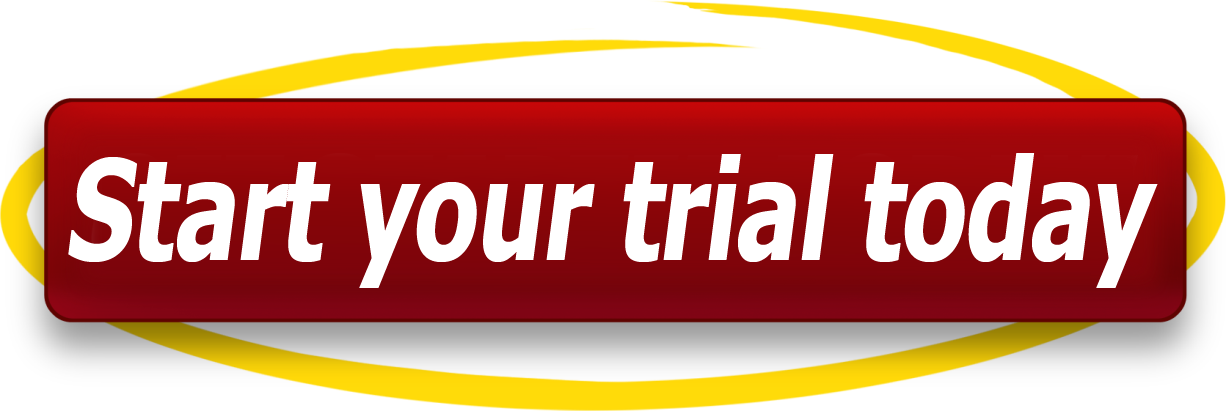
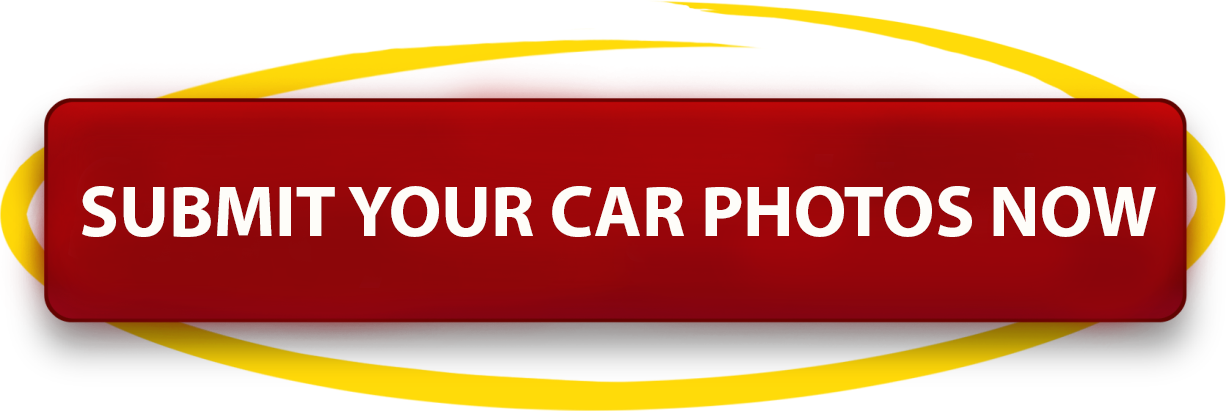
aa

diff --git a/public/css/sample_1/mycss.css b/public/css/sample_1/mycss.css
@@ -53,7 +53,7 @@
   text-shadow: 3px 4px 6px white;
 }
 .slider-p-black{
-    font-size: 25px;
+
     text-transform: uppercase;
     font-weight: bold;
     color: black;
@@ -66,6 +66,18 @@
     color: white;
     text-shadow: 3px 4px 6px black;
  
+}
+.text-shadow-black{
+    text-shadow: 3px 4px 6px black;
+}
+.text-shadow-white{
+    text-shadow: 3px 4px 6px white;
+}
+.text-shadow-green{
+    text-shadow: 3px 4px 6px #669932;
+}
+.font-65{
+    font-size: 65px;
 }
 .section-title{
     font-size: 50px; text-transform: uppercase;
@@ -110,7 +122,16 @@ font-weight: bold;
 box-shadow: -1px 7px 10px 0px rgba(0,0,0,0.44);
 }
 
+.dash-list{
+  list-style-type: none;
+}
 
+.dash-list  li:before {
+  content: "–"; /* en dash */
+  position: absolute;
+  margin-left: -1.1em; 
+
+            }
 
 
 
@@ -127,5 +148,17 @@ box-shadow: -1px 7px 10px 0px rgba(0,0,0,0.44);
     }
     .carousel-caption p{
         margin-bottom: 200px
+    }
+}
+@media only screen and (max-width: 1256px) {
+
+    .carousel-caption{
+        margin-top: 100px;
+    }
+}
+@media only screen and (min-width: 1257px) {
+   
+    .carousel-caption{
+        margin-bottom: 250px;
     }
 }

diff --git a/resources/views/landing_page/home.blade.php b/resources/views/landing_page/home.blade.php
@@ -17,57 +17,48 @@
                         <div class="carousel-caption row ">
                             <div class="col-md-7">
                               <h2 class="text-left slider-h2">HAVE YOUR CAR CHECKED FAST AND FREE <span style="color: #669932">BY AN EXPERT ONLINE </span></h2>
-                                  <div class="" style="margin-bottom: 300px">
-                                    <!-- <hr class="my-4"> -->
-                                    
+                                  <div class="">
                                     <p class="lead">
-                                      <p class="text-left slider-p-black" style="font-size: 34px;">your best bet to stay away form buying another lemon</p>
+                                      <p class="text-left slider-p-black font-30" style="text-shadow: 2px 1px 0px rgba(255, 255, 255, 1);font-weight: bolder;">your best bet to stay away form buying another lemon</p>
                                       <a class="btn btn-success btn-lg float-left" href="{{ url('Sample_1/Submit/') }}" role="button">TRY IT NOW FOR FREE</a>
                                     </p>
                                   </div>
                             </div>
                         </div>
                       </div>
-                         <!-- Slide Three - Set the background image for this slide in the line below -->
+
                       <div  class="carousel-item slider" style="background-image: url({{ asset('images/sample_1/slider/4.jpg') }})">
-                        <!-- <div class="carousel-caption  d-md-block">
-                          <h2 class="display-4">Save money and time</h2>
-                          <p class="lead">A new best way to check used car mechanically from deep within</p>
-                        </div> -->
                           <div class="carousel-caption row ">
                         
                             <div class="col-md-7 offset-md-5">
-                                    <div  class="jumbotron" style="max-height: 500px;margin-bottom: 300px;">
+                                    <div  class="jumbotron" style="min-height: 500px">
                                          <h2  class="text-right slider-h2"><span>SAVE <span style="color: #D59531" >MONEY</span> & TIME <img src="{{ asset('images/sample_1/icons/clock.jpg') }}" width="65"></span></h2>
                                                                     
                                             <p class="lead">
-                                              <p class="text-right slider-p-black">purchasing the right used car can be challenging, time consuming and sometimes quite a headache. And still there is no guarantee that you haven't picked up someone's headache</p>
+                                              <p class="text-right slider-p-black font-20">purchasing the right used car can be challenging, time consuming and sometimes quite a headache. And still there is no guarantee that you haven't picked up someone's headache</p>
                                               <a class="btn btn-success btn-lg float-right" href="{{ url('Sample_1/Submit/') }}" role="button">TRY IT NOW FOR FREE</a>
                                               <br>
                                             </p>  
                                     </div>
                             </div>
-                           
-                 
                         </div>
                       </div>
+
                       <div  class="carousel-item slider" style="background-image: url({{ asset('images/sample_1/slider/5.jpg') }})">
 
                           <div class="carousel-caption row ">
                         
                             <div class="col-md-7 offset-md-5">
-                                    <div class="jumbotron" style="max-height: 500px;margin-bottom: 300px;">
-                                         <h2 class="text-right slider-h2" style="color: #669932"><span>UP TO 3 FREE CAR ANALYSIS</span></h2>                                          
+                                    <div class="jumbotron" style="min-height: 500px;">
+                                         <h2 class="text-right text-shadow-black font-65 txtbolder" style="color: #669932;"><span>UP TO 3 FREE CAR ANALYSIS</span></h2>                                          
                                             <p class="lead">
-                                              <p class="text-right slider-p-black">A new best way to check used car mechanically from deep within</p>
-                                              <h3 class="text-right" style="color:red;font-weight: bold; font-size: 30px"><span  >NO HIDDEN CHARGES</span></h3>
+                                              <p class="text-right slider-p-black txtbolder font-30">A new best way to check used car mechanically from deep within</p>
+                                              <h3 class="text-right" style="color:red;font-weight: bold; font-size: 50px"><span  >NO HIDDEN CHARGES</span></h3>
                                               <a class="btn btn-success btn-lg float-right" href="{{ url('Sample_1/Submit/') }}" role="button">TRY IT NOW FOR FREE</a>
                                               <br>
                                             </p>  
                                     </div>
                             </div>
-                           
-                 
                         </div>
                       </div>
 
@@ -105,8 +96,8 @@
 
 
                         <ul class="list-unstyled">
-                            <li class="section-description"><i class="fas fa-check color-green"></i>  3 FREE Consultancy</li>
-                            <li class="section-description"><i class="fas fa-check color-green"></i>  Easy Process</li>
+                            <li class="section-description"><i class="fas fa-check color-green"></i>  3 FREE Analysis</li>
+                            <li class="section-description"><i class="fas fa-check color-green"></i>  Fast, Accurate and Complete checking of your car</li>
                             <li class="section-description"><i class="fas fa-check color-green"></i>  Tried and Tested</li>
                             <li class="section-description"><i class="fas fa-check color-green"></i>  100% FREE</li>
                         </ul>
@@ -125,11 +116,11 @@
                 <div class="col-md-8 col-lg-7 text-center">
 
                     <!-- Heading -->
-                    <h2 data-aos="zoom-in" class="lg-title mb-2 section-title mb-5"><span class="color-green">Why</span> <span class="color-white bg-green px-3">Choose us</span></h2>
+                    <h2 data-aos="zoom-in" class="lg-title mb-2 section-title mb-5"><span class="color-green">Why</span> <span class="color-white bg-green px-3">CarEnergies.com</span></h2>
 
                     <!-- Subheading -->
                     <p class="mb-5 section-description font-30">
-                        No other person in the world can do this, let alone do it online by just seeing a few photos online!
+                        No other person in the world can check with an X-ray precision, the existing (and soon to come) troubles of the automobile you consider to purchase, by looking at a few photos and sensing the energies of it.
                     </p>
 
                 </div>
@@ -147,7 +138,7 @@
                                     </div>
                                     <div class="service-content ">
                                         <h4 class="section-description"><span style="font-weight: bold;"  class="color-green txt-bold">EXPERT</span > Professional</h4>
-                                        <p class="color-black">In this section a description for and expert professional</p>
+                                        <p class="color-black">Having a car mechanic dad, Julia knows different systems and parts of cars, and does a complete and professional analysis</p>
                                     </div>
                                 </div>
                          </div>
@@ -158,8 +149,8 @@
                                         <img src="{{ asset('images/sample_1/icons/free.png') }}" alt="" height="100" width="100">
                                     </div>
                                     <div class="service-content ">
-                                        <h4 class="section-description"><span style="font-weight: bold;"  class="txt-bold color-green">100%</span > Free Trial</h4>
-                                        <p class="color-black">Sign up now to get free 3 consultation, A one time offer</p>
+                                        <h4 class="section-description"><span style="font-weight: bold;"  class="txt-bold color-green">100%</span > Free</h4>
+                                        <p class="color-black">Go ahead and submit six photos of the car for a free evaluation report NOW</p>
                                     </div>
                                 </div>
                          </div>
@@ -170,7 +161,7 @@
                                     </div>
                                     <div class="service-content ">
                                         <h4 class="section-description"><span style="font-weight: bold;"  class="txt-bold color-green">Trusted</span > by Clients</h4>
-                                        <p class="color-black">In this section a description for Trusted by Clients</p>
+                                        <p class="color-black">Julia has helped many clients choose the best car for their money. She can help you too</p>
                                     </div>
                                 </div>
                          </div>
@@ -180,8 +171,8 @@
                                         <img src="{{ asset('images/sample_1/icons/quick.png') }}" alt="" height="130" width="130">
                                     </div>
                                     <div class="service-content ">
-                                        <h4 class="section-description"><span style="font-weight: bold;"  class="txt-bold color-green">EASY</span > Process</h4>
-                                        <p class="color-black">This will only take up to 24 hours maximum, and can do 100 daily consultation</p>
+                                        <h4 class="section-description"><span style="font-weight: bold;"  class="txt-bold color-green">EASY</span > Fast</h4>
+                                        <p class="color-black">You upload and send your car photos, and receive your report usually in less than 24 hours</p>
                                     </div>
                                 </div>
                          </div>
@@ -219,7 +210,7 @@
                                       <img class="" src="{{ asset('images/sample_1/process/picture.png') }}" width="75" height="75">
                                   </div>
                                   <div class="service-content">
-                                      <h4 class="section-description text-right"><span style="font-weight: bold;"  class="txt-bold color-green">TAKE CAR'S</span> PICTURE</h4>
+                                      <h4 class="section-description text-right"><span style="font-weight: bold;"  class="txt-bold color-green">1. TAKE YOUR CAR'S</span> PICTURE</h4>
                                       <p class="color-black text-right">Upload 4 recent clear photos of the used car in(front,read,left side,rightside)</p>
                                   </div>
                             </div>
@@ -233,7 +224,7 @@
                                   </div>
                                   <div class="service-content">
                                       <h4 class="section-description text-right">
-                                          <span class="txt-bold color-green" style="font-weight: bold;">SUBMIT DETAILS</span> THRU EMAIL
+                                          <span class="txt-bold color-green" style="font-weight: bold;"> 2. YOU UPLOAD AND </span> SUBMIT THEM
                                       </h4>
                                       <p class="color-black text-right">Send us the pictures with your name, email address, state, city and country</p>
                                   </div>
@@ -254,9 +245,9 @@
                                 <img src="{{ asset('images/sample_1/process/diagnose.png') }}" width="75" height="75">
                                 <div class="service-content">
                                     <h4 class="section-description">
-                                        <span class="txt-bold color-green" style="font-weight: bold;">CAR</span> DIAGNOSTIC
+                                        <span class="txt-bold color-green" style="font-weight: bold;"> 3. CAR</span> DIAGNOSIS
                                     </h4>
-                                    <p class="color-black text-left">We are going to check the car's energy thru the sent photos from you and list existing potential problems if theres any</p>
+                                    <p class="color-black text-left">We will analyze the car energies to find and list the existing and/or potential problems, if any</p>
                                 </div>  
                             </div>                             
                         </div>
@@ -267,7 +258,7 @@
                                 <img src="{{ asset('images/sample_1/process/report.jpg') }}" width="75" height="75">
                                 <div class="service-content">
                                     <h4 class="section-description">
-                                        <span class="txt-bold color-green" style="font-weight: bold;">RESOLUTION &</span> RECOMMENDATION
+                                        <span class="txt-bold color-green" style="font-weight: bold;">4.  RESOLUTION &</span> RECOMMENDATION
                                     </h4>
                                     <p class="color-black text-left">An email will be sent back to you consisting with diagnostic report up to 12-24 hours</p>
                                 </div>  
@@ -536,11 +527,11 @@
                 <div class="col-md-12 col-lg-12 text-center">
 
                     <!-- Heading -->
-                     <h2 data-aos="fade-right" class="lg-title mb-4 section-title"><span style="font-weight: bold;"  class="color-green">Have any</span> <span class="color-white bg-green px-3">Questions on mind?</span></h2>
+                     <h2 data-aos="fade-right" class="lg-title mb-4 section-title"><span style="font-weight: bold;"  class="color-green">Have any</span> <span class="color-white bg-green px-3">Questions or Comments?</span></h2>
 
                     <!-- Subheading -->
                     <p class="mb-5 font-30 color-black">
-                        Our duty towards you is to share our experience we're reaching in our work path with you.
+                        Our goal is to serve you making your automobile purchase easier and help you save time, money.
                     </p>
 
                 </div>
@@ -587,8 +578,8 @@
 
                             <div class="col-lg-12">
                                 <div class="submit text-center">
-                                    <input name="submit" type="submit" class="btn btn-success btn-lg" value="Submit Now">
-                                    <p class="pt-3">* We will not spam on you inbox.</p>
+                                    <input name="submit" type="submit" class="btn btn-success btn-lg" value="Send Now">
+                                    <p class="pt-3">* We respect your privacy. We will not share your information with anybody and we will not spam your inbox.</p>
                                 </div>
                             </div>
                         </div>

diff --git a/resources/views/landing_page/benefits.blade.php b/resources/views/landing_page/benefits.blade.php
@@ -2,7 +2,10 @@
 
         <!-- About Car Energies
     ================================================== -->
-        
+        <style>
+            
+
+        </style>
 
         <section class="section">
             <div class="container-fluid">
@@ -12,7 +15,12 @@
                     </div>
                 </div>
                 <div class="col-md-8 offset-md-2 row mb-5">
-                       <p class="section-description">Imagine going to the seller knowing not only the condition of all parts of the vehicle, but also some trouble spots that even the seller may honestly not know. Even if you do not purchase it, the seller now can know the invaluable information on the coming future problems on the vehicle.</p>
+                      <!--  <p class="section-description">Imagine going to the seller knowing not only the condition of all parts of the vehicle, but also some trouble spots that even the seller may honestly not know. Even if you do not purchase it, the seller now can know the invaluable information on the coming future problems on the vehicle.</p> -->
+                      <ul class="dash-list">
+                          <li class="section-description">Imagine going to the seller, the auction in person or online, knowing not only the problems with the vehicle that might be covered up, but also the condition of parts soon to fail. or knowing that the car is in good shape and the asking price is well worth it. Either way, you are the head of the game. </li><br>
+                          <li class="section-description">You may be able to get a better deal during negotiation, when you show that you know a lot about the car that even the seller may not know. </li><br>
+                          <li class="section-description">And even if you walk away from it, you can help the seller by informing him of the coming troubles of the car.</li>
+                      </ul>
                 </div>
             </div>
           
@@ -24,8 +32,8 @@
                 </div>
                 <div class="col-md-6">
                     <div style="margin-top: 10%">
-                        <h3 class="section-title px-5"><span class="bg-green color-white px-3">DON'T BUY</span> <span >ANOTHER LEMON</span></h3>
-                        <p class=" px-5" style="font-size: 30px">Avoid being ripped off by a crook mechanic, that try to convince you of unnecessary and costly repairs! Know if you really need that!</p>
+                        <h3 class="section-title px-5"><span class="bg-green color-white px-3">DON'T BE DECEIEVED BY</span> <span >A DISHONEST MECHANIC</span></h3>
+                        <p class=" px-5" style="font-size: 30px">Avoid being taken advantage by a crook mechanic that tries to convince you of  unnecessary and costly repairs! Know if your vehicle really needs it</p>
        
                     </div>
                 </div>
@@ -33,37 +41,37 @@
             <div class="row" style="position:relative;">
                 <div class="col-md-6">
                     <div style="margin-top: 20%" class="px-5">
-                        <h3 class="section-title px-5">AHEAD <span class="bg-green color-white px-3">FROM ANYONE</span></h3>
+                        <h3 class="section-title px-5">AHEAD <span class="bg-green color-white px-3">OF EVERYONE</span></h3>
                         <p class="px-5"></p><br>
                         <div class="card">
                             <div class="card-body font-20 color-black">
                                  <img src="{{ asset('images/sample_1/benefits/ok.png') }}" alt="" class="" height="50" width="50">
-                                Bid with confidence in person or online automobile auctions.</div>
+                                A new best way to check a used car mechanical, electric, computer systems from deep within.</div>
                         </div>
                         <div class="card mt-2">
                             <div class="card-body font-20 color-black">
                                 <img src="{{ asset('images/sample_1/benefits/ok.png') }}" alt="" class="" height="50" width="50">
-                                Find gems that everybody else is overlooking (including possibly the car salesman), save thousands.</div>
+                                Find gems that everyone else is overlooking (including even the owner of the car) save thousands</div>
                         </div>
                         <div class="card mt-2">
                             <div class="card-body font-20 color-black"> 
                                 <img src="{{ asset('images/sample_1/benefits/ok.png') }}" alt="" class="" height="50" width="50">
-                                Increase your profits if you are in the business of buying and selling used cars, motorcycles, boats.</div>
+                                Walk away from problematic cars easily and happily.</div>
                         </div>
                          <div class="card mt-2">
                             <div class="card-body font-20 color-black"> 
                                 <img src="{{ asset('images/sample_1/benefits/ok.png') }}" alt="" class="" height="50" width="50">
-                                Free/easy/fast way to know the condition of your own vehicle.</div>
+                                Bid with confidence in person or online in auto auctions.</div>
                         </div>
                          <div class="card mt-2">
                             <div class="card-body font-20 color-black">
                                 <img src="{{ asset('images/sample_1/benefits/ok.png') }}" alt="" class="" height="50" width="50">
-                                Check for possible problems before you buy that used car.</div>
+                                Free/easy/fast way to know the condition of your own car.</div>
                         </div>
                          <div class="card mt-2">
                             <div class="card-body font-20 color-black">
                                 <img src="{{ asset('images/sample_1/benefits/ok.png') }}" alt="" class="" height="50" width="50">
-                                A new best way to check used car mechanically from deep within</div>
+                                Increase your profits if you are in the business of buying used cars, trucks, boats, motorcycles. </div>
                         </div>
                     </div>
                 </div>

diff --git a/resources/views/landing_page/about.blade.php b/resources/views/landing_page/about.blade.php
@@ -9,11 +9,13 @@
             <div class="container-fluid">
                 <div class="row">
                     <div class="col-md-12 text-center mb-3">
-                            <h2 data-aos="fade-right" class="lg-title mb-2 section-title"><span style="font-weight: bold;"  class="color-green">About</span> <span class="color-white bg-green px-3">Car energies</span><span class="ml-1 color-green">& julia</span></h2>
+                            <h2 data-aos="fade-right" class="lg-title mb-2 section-title"><span style="font-weight: bold;"  class="color-green">Everything is energy</span> <span class="color-white bg-green px-3">Everything emits energy</span></h2>
                     </div>
-                </div>
-                <div class="col-md-8 offset-md-2 row mb-5">
-                       <p class="section-description">Julia B. is very sensitive to subtle energies of objects, animals and people. She consumes energy doing this evaluation. She can evaluate a maximum of 100 automobiles a day. And for now, she will check up to 3 cars per person free of charge (and no more). Please note that this is for your personal use, and there are no guarantees that the car she approves, will be completely trouble free. But she has a proven track record of being %95 accurate in her evaluation..</p>
+                </div><br>
+                <div class="col-md-8 offset-md-2 row mb-5" >
+                       <p class="section-description" >Julia is very sensitive to subtle energies of objects, animals and people. She senses the defective or broken parts too. She has helped people to choose best used vehicle and stay away from buying lemons.</p>
+                        <p class="section-description">She has helped her friends and clients choose homes, lands, appliances, vehicles and other objects. She can help you too.  For now, she will analyze up to 3 cars per person free of charge</p>
+                        <p class="section-description">Please note that this service is for your personal use, and there are no guarantees that the car she approves, will be completely trouble free or the parts that she reports to be faulty or braking soon actually are. But she has a proven track record of being %95 accurate in her evaluation</p>
                 </div>
                 <div class="row col-md-12 justify-content-center">
                     <div class="about-img">
@@ -33,13 +35,13 @@
                     </div>
                     </div>
                     <div class="col-md-6">
-                        <p class="section-description">Julia can spot the troubles, accidents, damaged auto parts on cars, automobiles, trucks, motorcycles even bicycles. Even the best mechanics with the latest technologies who can check  a used car and give you a report of list of possible repairs can not detect the parts that are working at the moment of examination, but are done, used up and ready and about to break at any moment.</p >
+                        <p class="section-description">Julia can spot faulty mechanical, electrical parts and systems, previous accidents and covered up trouble spots of the vehicle by looking at new photos of it. She connects to the energies of these parts and informs you of her findings. Even the best mechanics using the latest technologies may not be able to detect the parts that are working at the moment of examination, but are done, used up and ready to break at any moment.</p >
                     </div>
                 </div>
                    <div class="row ">
                 <div class="col-lg-12 ">
                     <div class="container mb-5">
-                        <p class="px-5 text-center color-black" style="font-size: 30px">Where else can someone look at the photos of a car and see the failed arts, hidden problems, covered up headaches?</p>
+                        <p class="px-5 text-center color-black" style="font-size: 30px">Where else can someone look at the photos of a car and see the failed parts, hidden problems, covered up troubles?</p>
                     </div>
                 <div class="row col-lg-12 justify-content-center">
                     <a href="{{ url('Sample_1/Submit/') }}" class="btn btn-success text-center font-30">TRY OUR SERVICE FOR FREE</a>

diff --git a/resources/views/landing_page/footer.blade.php b/resources/views/landing_page/footer.blade.php
@@ -70,7 +70,7 @@
 
             <div class="row justify-content-md-center footer-copy">
                 <div class="col-lg-8 col-md-6 col-sm-6 text-center">
-                    <p class="lead text-white-50">&copy; Copyright 2019 | Design and Developed by Unciano </p>
+                    <p class="lead text-white-50">&copy; Copyright 2019 | Design and Developed by Car Energies </p>
                 </div>
             </div>
         </div>
